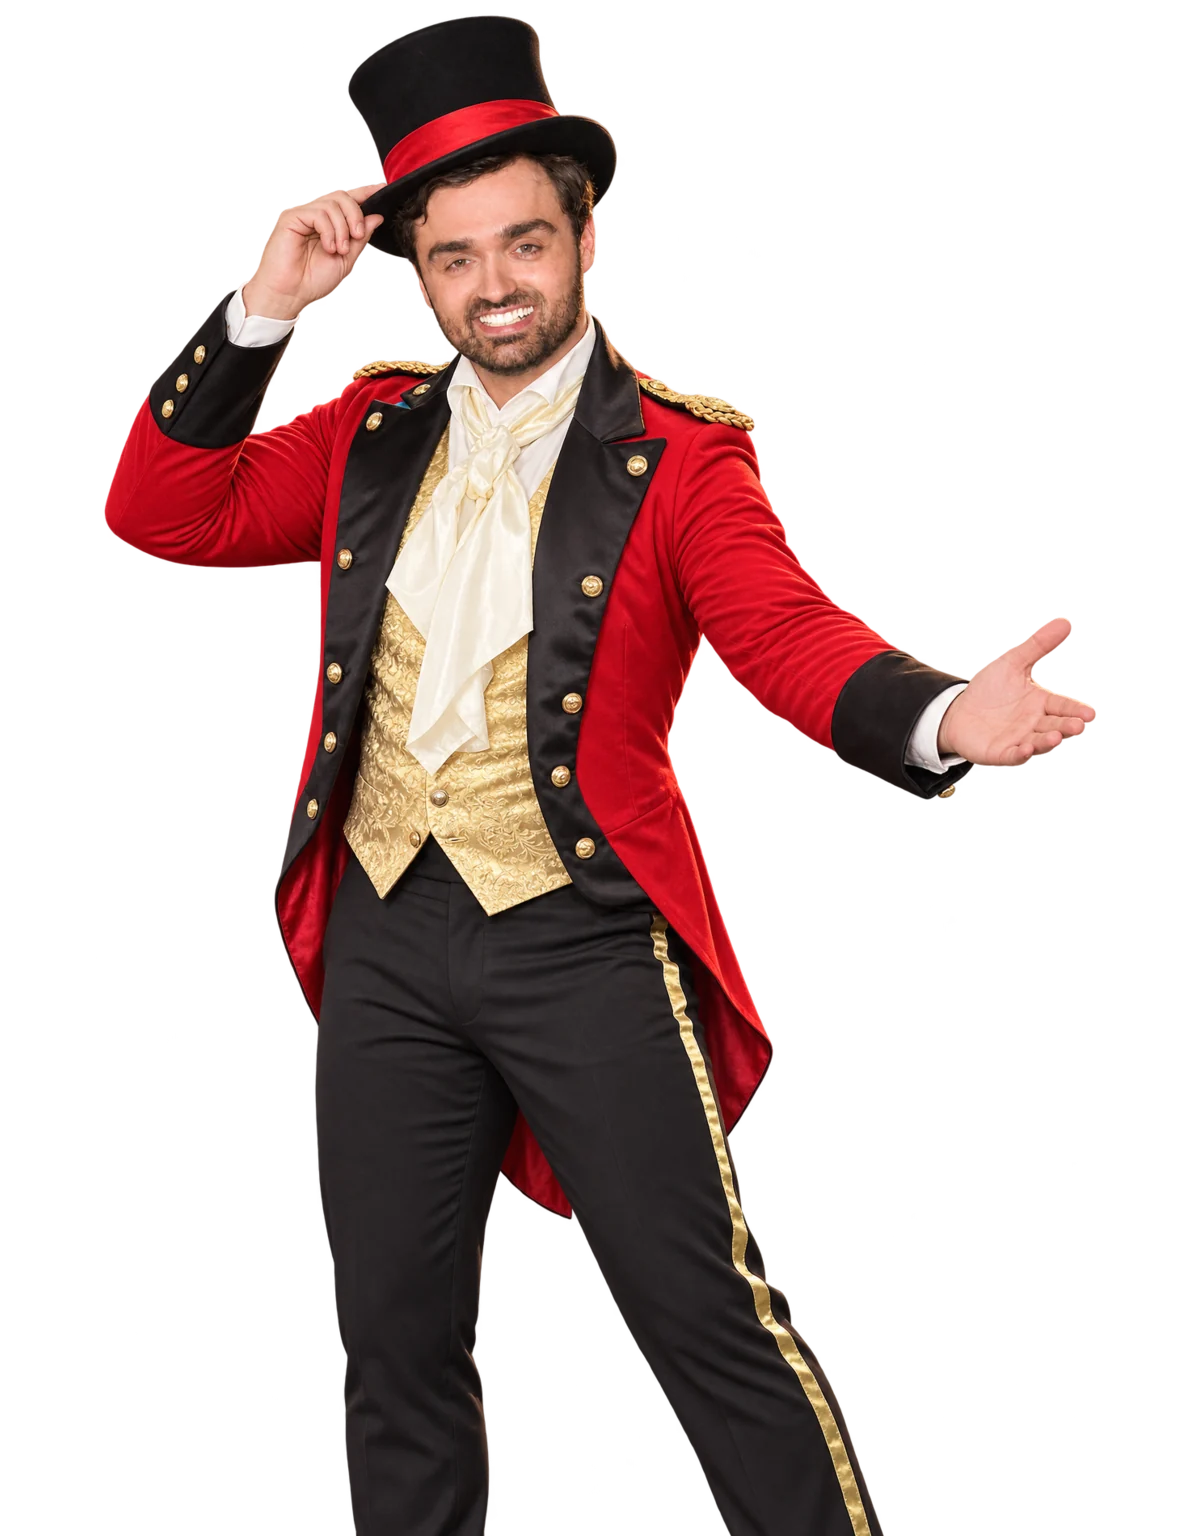
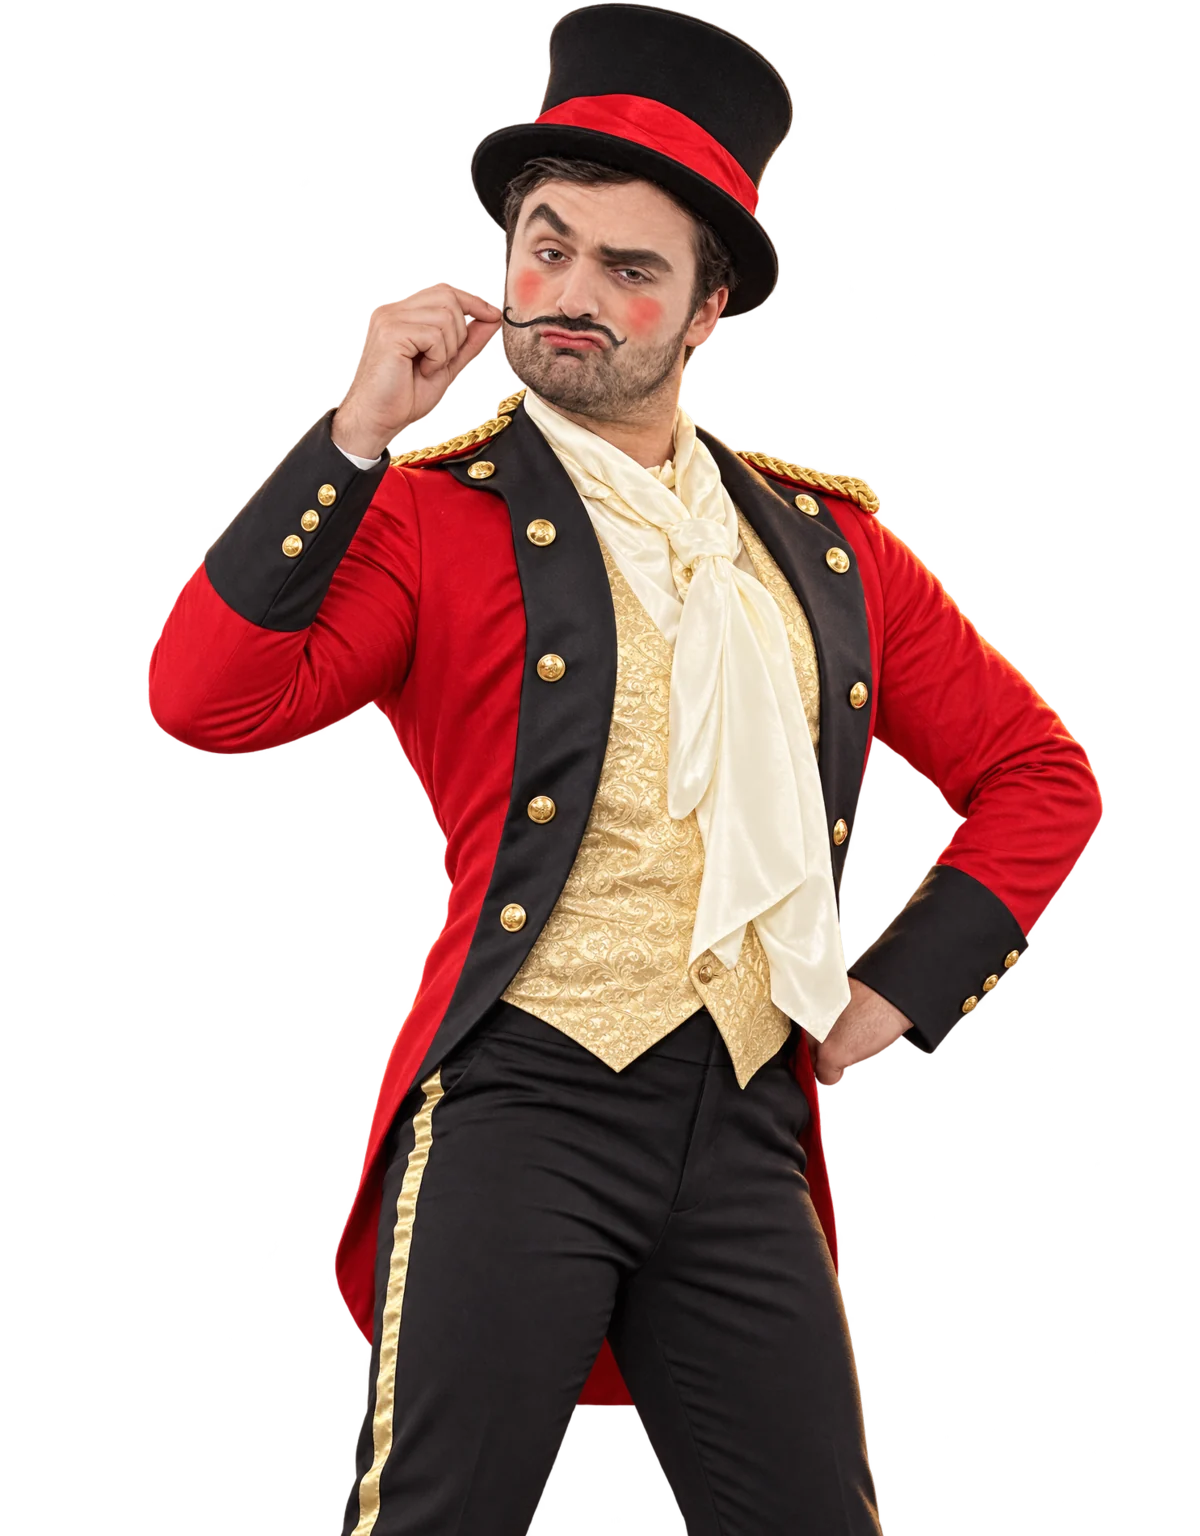
Hero : concept couteau suisse — manche DSTL, personnages dépliés comme des lames
- Les 7 personnages pivotent autour du rivet du manche et sortent un à un avec rebond
- Maître de piste refait avec le vrai maquillage de scène (référence : photo d'origine)
- DJ avec lunettes légèrement fumées
- Éventail décalé à droite, texte resserré : le nom n'est plus chevauché

diff --git a/css/refonte.css b/css/refonte.css
@@ -127,9 +127,11 @@ header.nav-hidden {
 
 /* ═════════════ HERO CAMÉLÉON : l'éventail de personnages ═════════════ */
 .cam-hero {
-    --fig-h: min(72svh, 46vw);      /* hauteur d'un personnage */
-    --cx: 64%;                      /* centre de l'éventail dans le hero */
-    --spread: 10.5deg;              /* angle entre deux personnages voisins */
+    --fig-h: min(74svh, 46vw);      /* hauteur d'un personnage */
+    --cx: 68%;                      /* centre de l'éventail dans le hero */
+    --spread: 12.5deg;              /* angle entre deux lames voisines */
+    --knife-h: calc(var(--fig-h) * 0.165); /* hauteur du manche */
+    --knife-b: 3.5svh;              /* distance entre le manche et le bas du hero */
     position: relative;
     min-height: 100svh;
     display: grid;
@@ -140,7 +142,9 @@ header.nav-hidden {
     isolation: isolate;
 }
 
-/* La scène : halo de projecteur + personnages découpés qui pivotent autour d'un point sous la scène */
+/* La scène : halo de projecteur + personnages découpés.
+   Concept « couteau suisse de la scène » : chaque personnage est une lame qui pivote
+   autour du rivet central du manche (.cam-knife) et se déplie avec un léger rebond. */
 .cam-stage {
     grid-column: 1 / -1; /* pleine largeur : les personnages des bords ne sont pas coupés par la colonne */
     grid-row: 1;
@@ -149,42 +153,65 @@ header.nav-hidden {
     min-height: 100svh;
     touch-action: pan-y;
     background:
-        radial-gradient(ellipse 34% 58% at var(--cx) 50%, rgba(212, 175, 55, 0.20), transparent 70%),
-        radial-gradient(ellipse 60% 30% at var(--cx) 100%, rgba(212, 175, 55, 0.10), transparent 70%);
-    /* les jambes fondent dans le noir */
-    -webkit-mask-image: linear-gradient(to top, transparent 2%, #000 24%);
-    mask-image: linear-gradient(to top, transparent 2%, #000 24%);
+        radial-gradient(ellipse 34% 58% at var(--cx) 52%, rgba(212, 175, 55, 0.20), transparent 70%),
+        radial-gradient(ellipse 50% 26% at var(--cx) 100%, rgba(200, 16, 46, 0.12), transparent 70%);
 }
 .cam-fig {
     position: absolute;
     left: var(--cx);
-    bottom: 0;
+    bottom: calc(var(--knife-b) + var(--knife-h) / 2); /* le bas de l'image = le rivet du manche */
     height: var(--fig-h);
     width: auto;
     aspect-ratio: 1200 / 1536;
     margin-left: calc(var(--fig-h) * -0.390625); /* centre l'image : largeur = hauteur × 1200/1536, la moitié à gauche */
-    transform-origin: 50% 150%;
-    /* fermé : tout le monde est caché derrière Dominic */
-    transform: rotate(0deg) scale(0.9);
+    transform-origin: 50% 100%;
+    /* replié : couché dans le manche, comme une lame fermée */
+    transform: rotate(calc(var(--side) * 97deg)) scale(0.5);
+    opacity: 0;
     filter: brightness(0.66) saturate(0.9);
     z-index: calc(10 - var(--d));   /* --d = distance au centre : le centre est devant */
-    transition: transform 1.1s var(--ease-out), filter 0.5s ease;
-    transition-delay: calc(var(--d) * 70ms), 0s;
+    /* le bas de la découpe (coupe nette aux cuisses) fond avant d'atteindre le manche */
+    -webkit-mask-image: linear-gradient(to top, transparent 1%, #000 17%);
+    mask-image: linear-gradient(to top, transparent 1%, #000 17%);
+    transition: transform 1s cubic-bezier(0.3, 1.45, 0.5, 1), opacity 0.35s ease, filter 0.5s ease;
+    transition-delay: calc(var(--o) * 130ms), calc(var(--o) * 130ms), 0s; /* les lames sortent une à une */
     pointer-events: none;           /* le survol est calculé par l'angle de la souris, pas par les rectangles */
     user-select: none;
     -webkit-user-drag: none;
 }
 .cam-stage.is-open .cam-fig {
     transform: rotate(calc(var(--k) * var(--spread))) scale(0.94);
+    opacity: 1;
 }
-.cam-stage .cam-fig.is-active {
-    transform: rotate(calc(var(--k) * var(--spread))) translateY(-3%) scale(1.06);
-    filter: brightness(1.05) saturate(1) drop-shadow(0 0 28px rgba(212, 175, 55, 0.28));
-    z-index: 20;
+/* une fois déployé, plus de délai en cascade : le survol répond tout de suite */
+.cam-stage.is-ready .cam-fig {
+    transition: transform 0.7s var(--ease-out), opacity 0.35s ease, filter 0.5s ease;
     transition-delay: 0s;
 }
-.cam-stage:not(.is-open) .cam-fig.is-active {
-    transform: scale(1);
+.cam-stage.is-open .cam-fig.is-active {
+    transform: rotate(calc(var(--k) * var(--spread))) scale(1.05);
+    filter: brightness(1.05) saturate(1) drop-shadow(0 0 28px rgba(212, 175, 55, 0.28));
+    z-index: 20;
+}
+
+/* Le manche du couteau suisse */
+.cam-knife {
+    position: absolute;
+    z-index: 30; /* devant les lames : il cache leur point de rencontre */
+    left: var(--cx);
+    bottom: var(--knife-b);
+    width: calc(var(--knife-h) * 4.6);
+    height: var(--knife-h);
+    transform: translateX(-50%) scale(0.92);
+    opacity: 0;
+    transition: transform 0.9s var(--ease-out), opacity 0.6s ease;
+    pointer-events: none;
+    filter: drop-shadow(0 14px 22px rgba(0, 0, 0, 0.65));
+}
+.js-rv .cam-hero.is-in .cam-knife,
+html:not(.js-rv) .cam-knife {
+    transform: translateX(-50%);
+    opacity: 1;
 }
 
 /* Voile sombre à gauche : le texte reste lisible quand un personnage passe derrière */
@@ -217,7 +244,7 @@ header.nav-hidden {
 .cam-name {
     font-family: 'Playfair Display', serif;
     font-weight: 700;
-    font-size: clamp(3rem, 7.2vw, 7.6rem);
+    font-size: clamp(3rem, 6.4vw, 6.8rem);
     line-height: 0.94;
     letter-spacing: -0.02em;
     color: #f6f0e2;
@@ -262,7 +289,7 @@ header.nav-hidden {
     transition: none;
 }
 .cam-desc {
-    max-width: 30rem;
+    max-width: 24rem;
     color: rgba(255, 255, 255, 0.72);
     line-height: 1.7;
     margin: 0 0 2.2rem;
@@ -344,7 +371,8 @@ header.nav-hidden {
 @media (max-width: 860px) {
     .cam-hero {
         --fig-h: min(50svh, 92vw);
-        --spread: 8deg;
+        --spread: 9deg;
+        --knife-b: 1.5svh;
         --cx: 50%;
         display: flex;
         flex-direction: column;
@@ -355,11 +383,11 @@ header.nav-hidden {
     .cam-stage {
         order: -1; /* l'éventail d'abord, le texte ensuite */
         min-height: 0;
-        height: calc(var(--fig-h) + 4svh);
+        height: calc(var(--fig-h) + var(--knife-h) + 4svh);
     }
-    /* les extrémités sortent de l'écran : le personnage actif vient au centre */
-    .cam-stage .cam-fig.is-active {
-        transform: rotate(0deg) translateY(-2%) scale(1.04);
+    /* les extrémités sortent de l'écran : la lame active se redresse au centre */
+    .cam-stage.is-open .cam-fig.is-active {
+        transform: rotate(0deg) scale(1.04);
     }
     .cam-copy {
         margin: 0;
@@ -385,7 +413,8 @@ header.nav-hidden {
         clip-path: none;
         transition: none;
     }
-    .cam-fig { transition: filter 0.2s ease; }
+    .cam-fig, .cam-stage.is-ready .cam-fig { transition: filter 0.2s ease; transition-delay: 0s; }
+    .cam-knife { transition: none; }
     .credibility-strip.is-marquee .credibility-items { animation: none; }
     .magic-text, .animate-float { animation: none !important; }
 }

diff --git a/index.html b/index.html
@@ -178,13 +178,30 @@
             </div>
         </div>
         <div class="cam-stage">
-            <img class="cam-fig" style="--k:-3;--d:3" data-role="Capitaine Crochet" width="1200" height="1536" src="images/hero/pirate.webp" alt="Dominic en Capitaine Crochet, crochet levé" draggable="false">
-            <img class="cam-fig" style="--k:-2;--d:2" data-role="Monsieur Loyal" width="1200" height="1536" src="images/hero/cirque.webp" alt="Dominic en maître de piste, redingote rouge et haut-de-forme" draggable="false">
-            <img class="cam-fig" style="--k:-1;--d:1" data-role="Crooner" width="1200" height="1536" src="images/hero/crooner.webp" alt="Dominic en crooner, foulard blanc et micro rétro" draggable="false">
-            <img class="cam-fig is-active" style="--k:0;--d:0" data-role="Animateur" width="1200" height="1536" src="images/hero/dominic.webp" alt="Dominic St-Laurent, veston bourgogne, micro en main" fetchpriority="high" draggable="false">
-            <img class="cam-fig" style="--k:1;--d:1" data-role="DJ" width="1200" height="1536" src="images/hero/dj.webp" alt="Dominic en DJ avec écouteurs" draggable="false">
-            <img class="cam-fig" style="--k:2;--d:2" data-role="Roi du disco" width="1200" height="1536" src="images/hero/disco.webp" alt="Dominic en chemise dorée disco" draggable="false">
-            <img class="cam-fig" style="--k:3;--d:3" data-role="Personnage loufoque" width="1200" height="1536" src="images/hero/loufoque.webp" alt="Dominic en personnage loufoque, combinaison argentée rétro" draggable="false">
+            <img class="cam-fig" style="--k:-3;--d:3;--o:0;--side:-1" data-role="Capitaine Crochet" width="1200" height="1536" src="images/hero/pirate.webp" alt="Dominic en Capitaine Crochet, crochet levé" draggable="false">
+            <img class="cam-fig" style="--k:-2;--d:2;--o:1;--side:-1" data-role="Monsieur Loyal" width="1200" height="1536" src="images/hero/cirque.webp" alt="Dominic en maître de piste maquillé, redingote rouge et haut-de-forme" draggable="false">
+            <img class="cam-fig" style="--k:-1;--d:1;--o:2;--side:-1" data-role="Crooner" width="1200" height="1536" src="images/hero/crooner.webp" alt="Dominic en crooner, foulard blanc et micro rétro" draggable="false">
+            <img class="cam-fig is-active" style="--k:0;--d:0;--o:3;--side:-1" data-role="Animateur" width="1200" height="1536" src="images/hero/dominic.webp" alt="Dominic St-Laurent, veston bourgogne, micro en main" fetchpriority="high" draggable="false">
+            <img class="cam-fig" style="--k:1;--d:1;--o:4;--side:1" data-role="DJ" width="1200" height="1536" src="images/hero/dj.webp" alt="Dominic en DJ, écouteurs et lunettes fumées" draggable="false">
+            <img class="cam-fig" style="--k:2;--d:2;--o:5;--side:1" data-role="Roi du disco" width="1200" height="1536" src="images/hero/disco.webp" alt="Dominic en chemise dorée disco" draggable="false">
+            <img class="cam-fig" style="--k:3;--d:3;--o:6;--side:1" data-role="Personnage loufoque" width="1200" height="1536" src="images/hero/loufoque.webp" alt="Dominic en personnage loufoque, combinaison argentée rétro" draggable="false">
+            <!-- Le manche : « le couteau suisse de la scène ». Les personnages en sont les lames. -->
+            <svg class="cam-knife" viewBox="0 0 460 100" aria-hidden="true" focusable="false">
+                <defs>
+                    <linearGradient id="kRed" x1="0" y1="0" x2="0" y2="1"><stop offset="0" stop-color="#e2233f"/><stop offset=".55" stop-color="#b5122b"/><stop offset="1" stop-color="#7d0a1c"/></linearGradient>
+                    <linearGradient id="kSteel" x1="0" y1="0" x2="0" y2="1"><stop offset="0" stop-color="#f1f1f1"/><stop offset="1" stop-color="#8c8f94"/></linearGradient>
+                    <radialGradient id="kBrass" cx=".35" cy=".3" r=".8"><stop offset="0" stop-color="#fde68a"/><stop offset="1" stop-color="#a97f1f"/></radialGradient>
+                </defs>
+                <circle cx="18" cy="50" r="13" fill="none" stroke="url(#kSteel)" stroke-width="4"/>
+                <rect x="26" y="6" width="420" height="88" rx="44" fill="url(#kSteel)"/>
+                <rect x="30" y="12" width="412" height="80" rx="40" fill="url(#kRed)"/>
+                <path d="M70 22 H402 a30 30 0 0 1 22 10 H48 a30 30 0 0 1 22 -10z" fill="#fff" opacity=".22"/>
+                <circle cx="72" cy="52" r="7" fill="url(#kBrass)"/><circle cx="400" cy="52" r="7" fill="url(#kBrass)"/>
+                <circle cx="236" cy="52" r="11" fill="url(#kBrass)" stroke="#5c430c" stroke-width="1.5"/>
+                <path d="M120 33 h56 v22 c0 12 -14 20 -28 25 c-14 -5 -28 -13 -28 -25z" fill="#f6f0e2" opacity=".95"/>
+                <text x="148" y="60" text-anchor="middle" font-family="Poppins, sans-serif" font-weight="700" font-size="17" letter-spacing="1" fill="#9b0f25">DSTL</text>
+                <text x="322" y="58" text-anchor="middle" font-family="Poppins, sans-serif" font-weight="600" font-size="11" letter-spacing="3" fill="#fff" opacity=".8">DE LA SCÈNE</text>
+            </svg>
         </div>
     </section>
 

diff --git a/js/refonte.js b/js/refonte.js
@@ -135,7 +135,8 @@
         // (Les images se chevauchent et leurs zones transparentes aussi : viser par rectangle serait imprécis.)
         function pick(e) {
             var r = stage.getBoundingClientRect(), fh = figs[home].offsetHeight;
-            var px = figs[home].offsetLeft + figs[home].offsetWidth / 2 + r.left, py = r.bottom + fh * 0.5; // transform-origin: 50% 150%
+            var px = figs[home].offsetLeft + figs[home].offsetWidth / 2 + r.left;
+            var py = r.top + figs[home].offsetTop + fh; // le rivet : transform-origin 50% 100%
             var deg = Math.atan2(e.clientX - px, py - e.clientY) * 180 / Math.PI;
             var k = Math.round(deg / spread);
             return Math.min(Math.max(k + home, 0), figs.length - 1);
@@ -159,13 +160,20 @@
 
         // L'éventail s'ouvre une fois les images prêtes
         var pending = figs.filter(function (f) { return !f.complete; }).length;
-        function open() { setTimeout(function () { stage.classList.add('is-open'); start(); }, reduce ? 0 : 500); }
+        function open() {
+            var hero = stage.closest('.cam-hero');
+            if (hero) hero.classList.add('is-in'); // le manche apparaît
+            setTimeout(function () {
+                stage.classList.add('is-open'); // les lames se déplient une à une
+                setTimeout(function () { stage.classList.add('is-ready'); start(); }, reduce ? 0 : 1900);
+            }, reduce ? 0 : 700);
+        }
         if (!pending) open();
         else figs.forEach(function (f) {
             if (f.complete) return;
             f.addEventListener('load', done); f.addEventListener('error', done);
             function done() { if (--pending === 0) open(); }
         });
-        setTimeout(function () { stage.classList.add('is-open'); }, 4000); // filet de sécurité
+        setTimeout(function () { if (!stage.classList.contains('is-open')) open(); }, 4000); // filet de sécurité
     }
 })();
